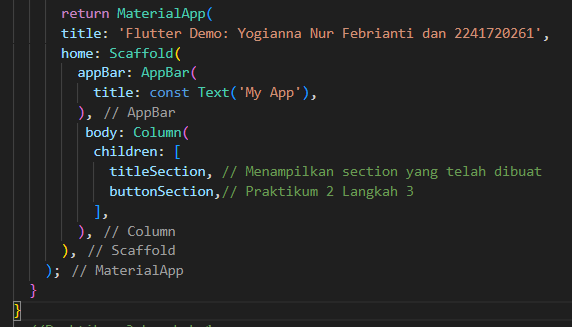
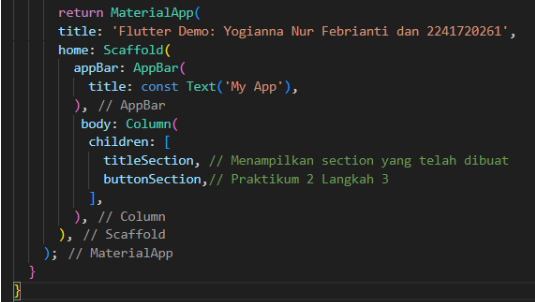
Praktikum 3: Implementasi text section

Changed region(s): [[0.0598, 0.149, 0.957, 0.8642], [0.0598, 0.0, 0.957, 0.149], [0.0, 0.0, 0.0897, 1.0]]

diff --git a/layout_flutter/lib/main.dart b/layout_flutter/lib/main.dart
@@ -64,6 +64,19 @@ class MyApp extends StatelessWidget {
         ],
       );
 
+      //Praktikum 3 langkah 1
+      Widget textSection = Container(
+        padding: const EdgeInsets.all(32),
+        child: const Text(
+          'Selecta Daya Tarik\n'
+          'Selecta adalah tempat wisata yang terkenal dengan keindahan alamnya, terletak di ketinggian sekitar 1.200 meter di atas permukaan laut. '
+          'Taman rekreasi ini menawarkan pemandangan yang menakjubkan dengan berbagai bunga warna-warni yang bermekaran, serta udara yang sejuk dan segar. '
+          'Di dalam Selecta, pengunjung dapat menikmati berbagai fasilitas, termasuk kolam renang, taman bermain, dan wahana permainan yang menyenangkan. '
+          'Keindahan panorama pegunungan dan suasana yang tenang menjadikan Selecta sebagai tempat yang ideal untuk bersantai dan melepas penat. (Yogianna Nur Febrianti 2241720261)',
+          softWrap: true,
+        ),
+      );
+
       return MaterialApp(
       title: 'Flutter Demo: Yogianna Nur Febrianti dan 2241720261',
       home: Scaffold(
@@ -74,6 +87,7 @@ class MyApp extends StatelessWidget {
           children: [
             titleSection, // Menampilkan section yang telah dibuat
             buttonSection,// Praktikum 2 Langkah 3
+             textSection,//Praktikum 3 Langkah 2
           ],
         ),
       ),

diff --git a/README.md b/README.md
@@ -123,3 +123,13 @@ Tambahkan variabel buttonSection ke dalam body
 #### *Hasilnya*
 
 <img src = img/hasilprak2.png>
+
+## - Praktikum 3: Implementasi text section
+
+### *- Langkah 1: Buat widget textSection*
+
+Tentukan bagian teks sebagai variabel. Masukkan teks ke dalam Container dan tambahkan padding di sepanjang setiap tepinya. Tambahkan kode berikut tepat di bawah deklarasi buttonSection:
+
+
+
+### *- Langkah 2: Tambahkan variabel text section ke body*
